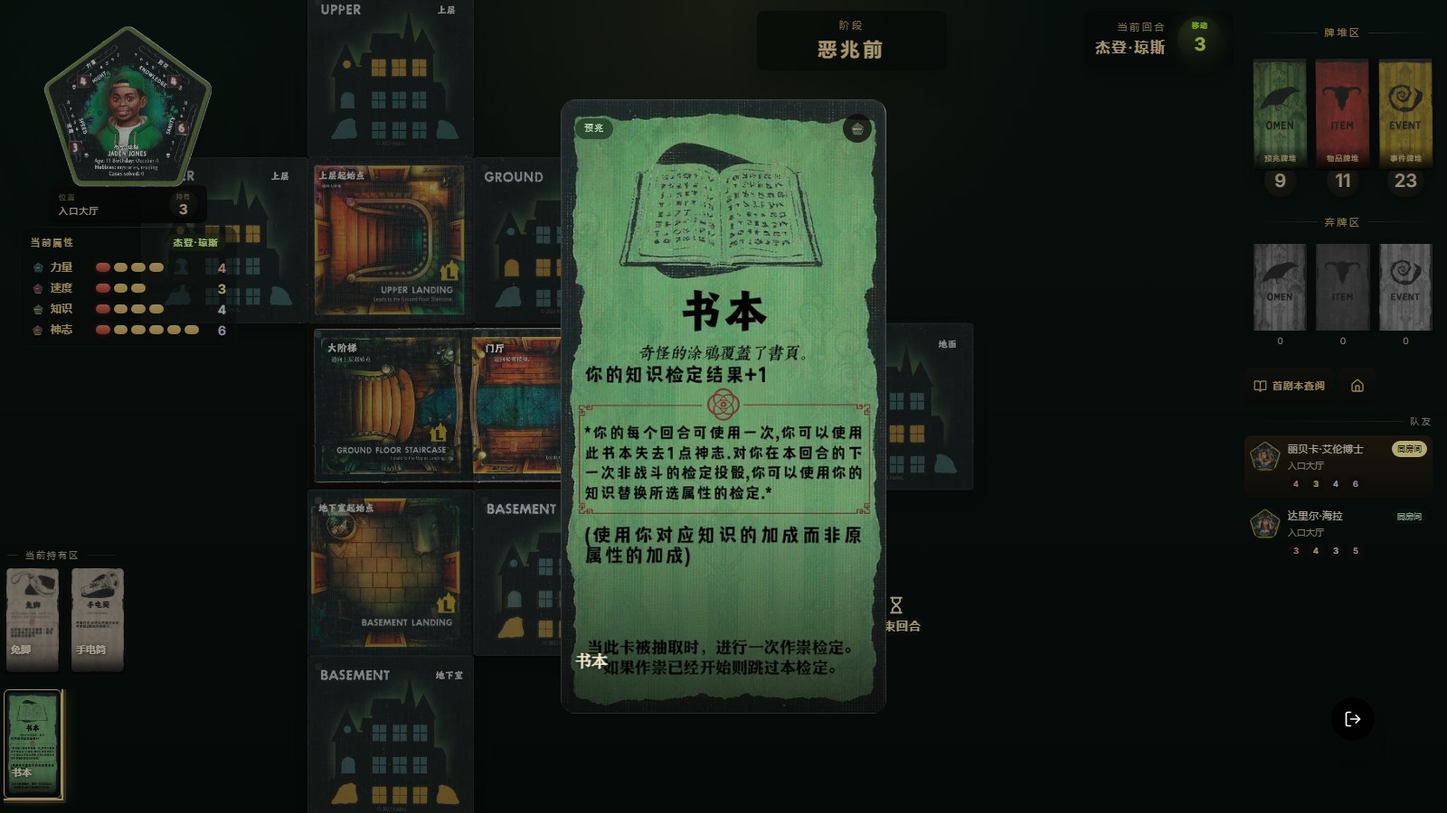
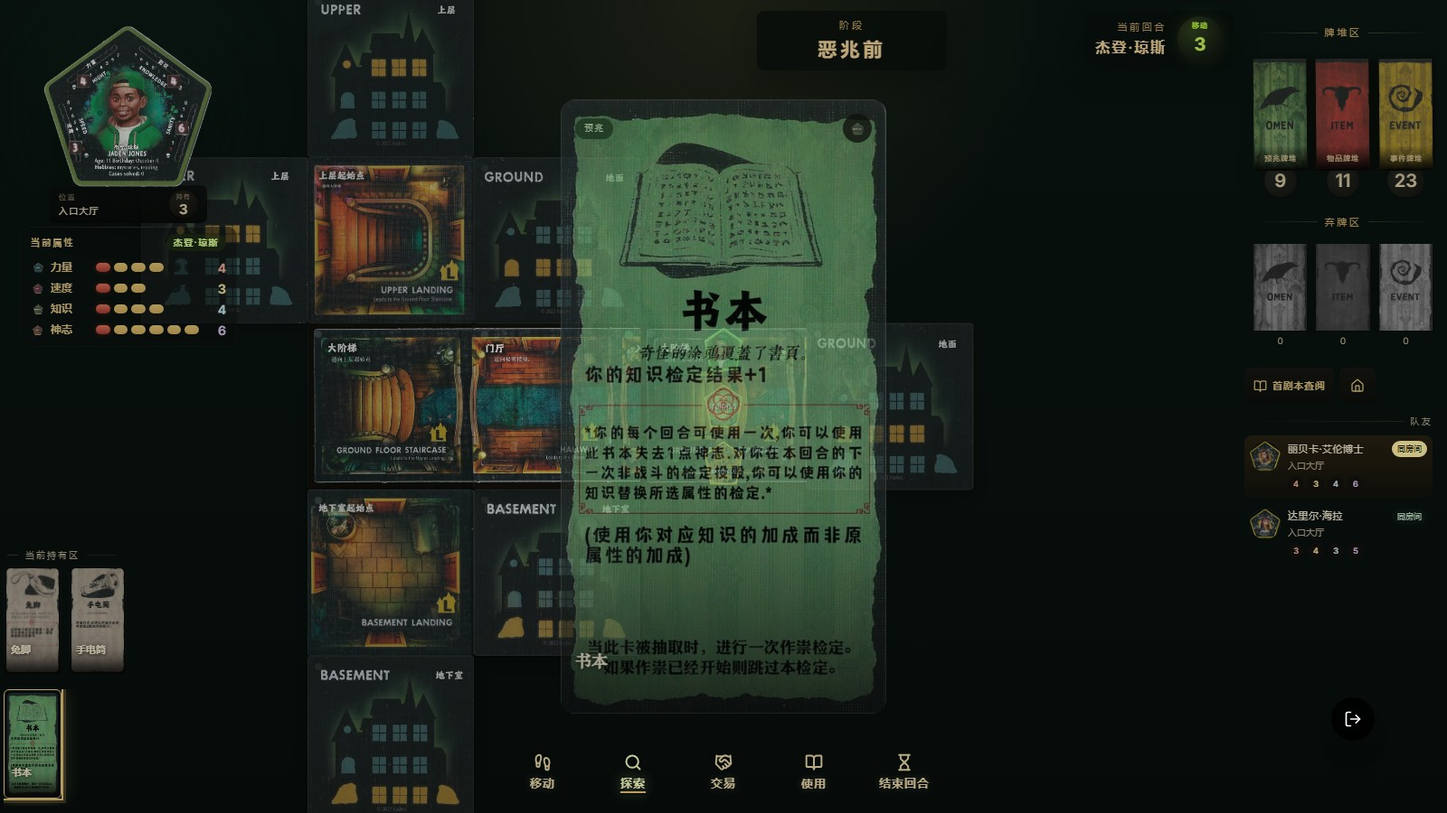
收口七大恨事件记录与面板布局后续改动
- 更新七大恨事件牌正式打出记录层文档与 OpenSpec 任务口径。

- 补充七大恨事件牌行动日志中的规则摘要输出。

- 调整山屋惊魂行动按钮布局，减少地图坐标硬编码。

- 等待 DiceThrone 测试 harness 注册后再派发命令，降低 E2E 抖动。

Changed region(s): [[0.375, 0.1244, 0.625, 0.84], [0.5938, 0.9333, 0.6562, 0.9644]]

diff --git a/src/games/betrayal/Board.tsx b/src/games/betrayal/Board.tsx
@@ -104,9 +104,6 @@ const ROOM_TILE_STEP_Y = 184;
 const ROOM_CANVAS_PADDING = 8;
 const ROOM_CANVAS_MIN_WIDTH = 780;
 const ROOM_CANVAS_MIN_HEIGHT = 560;
-const ACTION_BUTTON_MAP_OFFSET_X = 43;
-const ACTION_BUTTON_MAP_STEP_X = 74;
-const ACTION_BUTTON_MAP_OFFSET_Y = ROOM_CANVAS_PADDING + (3 * ROOM_TILE_STEP_Y) + ROOM_TILE_SIZE - 98;
 
 const EXPLORER_BOARD_MARKER_RANGE: Record<BetrayalTraitKey, { from: { x: number; y: number }; to: { x: number; y: number } }> = {
     might: { from: { x: 14.5, y: 44.5 }, to: { x: 35.5, y: 23.5 } },
@@ -4033,30 +4030,28 @@ export default function BetrayalBoard({ G, dispatch, playerID, matchData, locale
                                     );
                                     })}
                                 </div>
-                                {visibleActionItems.length > 0 ? (
-                                    <>
-                                        {core.recommendedAction === 'trade' ? (
-                                            <div
-                                                data-testid="betrayal-trade-flow-banner"
-                                                className="pointer-events-none absolute left-1/2 top-0 z-40 flex -translate-x-1/2 items-center gap-2 rounded-none border-0 bg-transparent px-0 py-0 text-[13px] font-semibold tracking-[0.06em] text-[#f3e0a6]"
-                                                style={{
-                                                    transform: `translate(-50%, ${ACTION_BUTTON_MAP_OFFSET_Y - 24}px)`,
-                                                    textShadow: '0 1px 2px rgba(0,0,0,0.85), 0 0 12px rgba(238,204,126,0.36)',
-                                                }}
+                            </div>
+                            {visibleActionItems.length > 0 ? (
+                                <div className="pointer-events-none absolute inset-x-0 bottom-2 z-50 hidden flex-col items-center justify-end gap-1 md:flex">
+                                    {core.recommendedAction === 'trade' ? (
+                                        <div
+                                            data-testid="betrayal-trade-flow-banner"
+                                            className="pointer-events-none flex items-center gap-2 rounded-none border-0 bg-transparent px-0 py-0 text-[13px] font-semibold tracking-[0.06em] text-[#f3e0a6]"
+                                            style={{
+                                                textShadow: '0 1px 2px rgba(0,0,0,0.85), 0 0 12px rgba(238,204,126,0.36)',
+                                            }}
+                                        >
+                                            <span data-testid="betrayal-trade-flow-item-step">{tradeInstructionText}</span>
+                                            <span
+                                                data-testid="betrayal-trade-flow-target-step"
+                                                className={tradeSelectionReady ? 'text-[#f6ffc4]' : 'text-[#d6c498]'}
                                             >
-                                                <span data-testid="betrayal-trade-flow-item-step">{tradeInstructionText}</span>
-                                                <span
-                                                    data-testid="betrayal-trade-flow-target-step"
-                                                    className={tradeSelectionReady ? 'text-[#f6ffc4]' : 'text-[#d6c498]'}
-                                                >
-                                                    {tradeSelectionReady ? t('board.status.tradeFlowConfirm') : t('board.status.tradeFlowChoose')}
-                                                </span>
-                                            </div>
-                                        ) : null}
+                                                {tradeSelectionReady ? t('board.status.tradeFlowConfirm') : t('board.status.tradeFlowChoose')}
+                                            </span>
+                                        </div>
+                                    ) : null}
+                                    <div className="pointer-events-auto flex items-end justify-center gap-5">
                                         {visibleActionItems.map((action) => {
-                                            const buttonIndex = visibleActionItems.findIndex((item) => item.id === action.id);
-                                            const totalButtons = Math.max(visibleActionItems.length, 1);
-                                            const centerOffset = ACTION_BUTTON_MAP_OFFSET_X + ((buttonIndex - ((totalButtons - 1) / 2)) * ACTION_BUTTON_MAP_STEP_X);
                                             const Icon = ACTION_ICON_BY_ID[action.id as keyof typeof ACTION_ICON_BY_ID] || Compass;
                                             const isRecommended = action.id === core.recommendedAction
                                                 || (previewState.interactionMode === 'move' && action.id === 'move');
@@ -4078,7 +4073,7 @@ export default function BetrayalBoard({ G, dispatch, playerID, matchData, locale
                                                     data-testid={`betrayal-action-${action.id}`}
                                                     data-tutorial-id={`betrayal-action-${action.id}`}
                                                     title={actionCueText}
-                                                    className={`pointer-events-auto absolute left-1/2 top-0 z-40 flex min-h-[72px] min-w-[80px] flex-col items-center justify-center gap-1 rounded-[5px] border-0 bg-transparent px-1.5 py-2 text-[13px] font-bold uppercase tracking-[0.08em] shadow-none transition ${
+                                                    className={`flex min-h-[72px] min-w-[80px] flex-col items-center justify-center gap-1 rounded-[5px] border-0 bg-transparent px-1.5 py-2 text-[13px] font-bold uppercase tracking-[0.08em] shadow-none transition ${
                                                         action.disabled
                                                             ? 'cursor-not-allowed text-[#5f584d] opacity-55'
                                                             : isRecommended
@@ -4086,7 +4081,6 @@ export default function BetrayalBoard({ G, dispatch, playerID, matchData, locale
                                                                 : 'text-[#ead8a8] hover:text-[#fff0ba]'
                                                     }`}
                                                     style={{
-                                                        transform: `translate(calc(-50% + ${centerOffset}px), ${ACTION_BUTTON_MAP_OFFSET_Y}px)`,
                                                         backgroundColor: 'transparent',
                                                         backgroundImage: 'none',
                                                         border: 0,
@@ -4103,9 +4097,9 @@ export default function BetrayalBoard({ G, dispatch, playerID, matchData, locale
                                                 </button>
                                             );
                                         })}
-                                    </>
-                                ) : null}
-                            </div>
+                                    </div>
+                                </div>
+                            ) : null}
                         </article>
 
                     </section>

diff --git a/src/games/qidahen/domain/selectedActionFollowUp.ts b/src/games/qidahen/domain/selectedActionFollowUp.ts
@@ -96,11 +96,12 @@ const buildQidahenSelectedActionFollowUpLogText = (
     if (resolution.pendingTargetAction) {
         return `${currentFactionName} 执行 ${actionLabel}，弃 ${spentCardCount} 张牌${paymentResourceText}，进入 ${resolution.pendingTargetAction.title}（${resolution.pendingTargetAction.resolutionHint}）。`;
     }
+    if (selectedEventActionCardLabel) {
+        const eventSummaryText = resolution.lastSeasonSummary?.lines[0] ?? '';
+        return `${currentFactionName} 执行 ${actionLabel}「${selectedEventActionCardLabel}」，弃 ${spentCardCount} 张牌${paymentResourceText}。${eventSummaryText}`;
+    }
     if (resolution.lastSeasonSummary?.lines[0]) {
         return `${currentFactionName} 执行 ${actionLabel}，弃 ${spentCardCount} 张牌${paymentResourceText}。${resolution.lastSeasonSummary.lines[0]}`;
-    }
-    if (selectedEventActionCardLabel) {
-        return `${currentFactionName} 执行 ${actionLabel}「${selectedEventActionCardLabel}」，弃 ${spentCardCount} 张牌${paymentResourceText}。`;
     }
     return `${currentFactionName} 执行 ${actionLabel}，弃 ${spentCardCount} 张牌${paymentResourceText}。`;
 };

diff --git a/e2e/dicethrone/dicethrone-duel-shared-compare-roll.e2e.ts b/e2e/dicethrone/dicethrone-duel-shared-compare-roll.e2e.ts
@@ -55,6 +55,10 @@ const dispatchHarnessCommand = async (
     playerId: string,
     payload: Record<string, unknown> = {},
 ) => {
+    await page.waitForFunction(
+        () => (window as any).__BG_TEST_HARNESS__?.command?.isRegistered?.() === true,
+        { timeout: 15000 },
+    );
     await page.evaluate(async ({ commandType, commandPlayerId, commandPayload }) => {
         await (window as any).__BG_TEST_HARNESS__!.command.dispatch({
             type: commandType,

diff --git a/docs/games/qidahen/workflows/qidahen-primary-interaction-audit.md b/docs/games/qidahen/workflows/qidahen-primary-interaction-audit.md
@@ -37,9 +37,9 @@
   - 不再使用 `/play/qidahen/tutorial/...` 路由截图来判断正式进行页 UI
   - 已重新核到的正式页图里，底部教程白色 `下一步` 卡不再出现
 - 但当前正式 UI **没有完整暴露规则书定义的手牌行动全集**：
-  - `执行事件` 还没有对正式开局大多数手牌形成稳定一级入口
-  - `升级军备` 已从右侧势力行动按钮列拆出，只能由**已识别**军备牌手牌本体直接进入正式动作预览
-  - 手牌区虽然已能让**已识别**军备牌/事件牌直接进入正式动作预览，但正式开局仍缺普通事件牌/军备牌真相源，不能稳定承担规则书意义上的“直接打出哪张手牌”
+  - `执行事件` 已能让 atlas05 已确认事件牌从手牌本体进入正式打出记录层，并在摘要里保留具体牌名和规则效果摘要；但完整事件效果仍待逐张实现
+  - `升级军备` 已从右侧势力行动按钮列拆出，并能由 atlas05 已确认军备牌手牌本体直接进入正式动作预览
+  - 手牌区已经能让 atlas05 已确认军备牌/事件牌直接进入正式动作预览或记录层，但事件效果全集、战术时机和银两资源链仍未闭环，不能把这层局部接入说成规则书级手牌行动全集完成
 - 当前地区状态已完成一层持久语义拆分：`regionFocusState` 明确承接默认聚焦、已锁来源、当前目标和展示锚点；`selectedRegionId` 继续作为兼容的屏幕焦点入口，但不再是后续来源区、目标区和展示锚点的唯一真相源。
 - 当前基础教程虽然已经不再把 `select-region` 写成独立第一步，但教程体系与正式进行页之间仍有两层问题：
   - 基础章当前只稳定示范了 `势力行动 + 轮盘行动`
@@ -126,15 +126,15 @@
     - 运行时图集候选安全复核入口已沉淀为 `docs/games/qidahen/workflows/qidahen-hand-card-runtime-atlas-safe-review.md`；本地脚本只生成 28 条候选的小尺寸缩略图与标题裁切索引，避免直接读取大图，但这仍只是人工/OCR 入口，不是正式规则映射。
     - 运行时图集候选小图 OCR 尝试已沉淀为 `docs/games/qidahen/workflows/qidahen-hand-card-runtime-atlas-ocr-attempt.md`；本轮定位到路径编码与内存/显存不足问题，未获得稳定逐牌 OCR 结果，后续改用低分辨率安全预览逐批核读。
     - 运行时图集候选与既有 OCR 线索交叉表已沉淀为 `docs/games/qidahen/workflows/qidahen-hand-card-runtime-atlas-existing-ocr-crosswalk.md`；`docs/games/qidahen/workflows/qidahen-hand-card-runtime-atlas-priority-review.md` 已记录 28 条候选的逐批安全预览核读结果，所有候选均已排除，且没有任何行达到人工确认反写门槛。
-- 因此当前正式局已修正“可证明非行动牌仍是 unknown 壳”的问题，并且 atlas05 已提供普通手牌抽样真相源；49 张已确认普通手牌已经进入正式发牌/摸牌、预览流与运行态规则摘要字段。但正式运行态仍不具备：
-  - 按规则书直接打出哪张事件牌
-  - 按规则书直接打出哪张军备牌
-  - 以真实手牌对象承接一级手牌行动入口
+- 因此当前正式局已修正“可证明非行动牌仍是 unknown 壳”的问题，并且 atlas05 已提供普通手牌真相源；49 张已确认普通手牌已经进入正式发牌/摸牌、预览流与运行态规则摘要字段。正式运行态已经具备一层真实手牌对象入口：
+  - atlas05 已确认事件牌可从手牌本体进入 `执行事件` 记录层，并记录“打出哪张事件牌”和规则摘要
+  - atlas05 已确认军备牌可从手牌本体进入 `升级军备`，并记录“打出哪张军备牌”和目标军备升级结果
+  - atlas05 已确认银两牌可作为支付牌进入弃牌执行链
 - 在这层手牌规则真相补齐前：
-  - `执行事件` 仍然只能判定为正式一级入口缺口
-  - `升级军备` 已去掉抽象势力行动按钮，但仍只能判定为已识别军备牌的局部真实入口
+  - `执行事件` 只能判定为“正式打出记录层已接入”，不能判定为事件效果全集完成
+  - `升级军备` 已去掉抽象势力行动按钮，并补到已确认军备牌的局部真实入口
   - `战术牌` 只补到“规则摘要明确禁止攻城/守城、明确野战限定、明确守城专用、明确依赖增援/附兵劫掠触发，或明确要求具体兵种阶段/炮兵阶段的牌会被当前攻方战术窗口门禁拦截”这一层，仍不是完整战术时机全集
-  - 任何“正式局已经能从真实手牌直接打牌”的口径都不成立
+  - 任何“正式局已经完成事件效果全集、战术时机全集或银两资源链”的口径都不成立
 - OpenSpec `2.4` 不得因为 atlas05 已有 49 张确认行、领域层解析函数和正式发牌/预览接入而勾选；当前核验结论是“普通手牌真相源与局部运行时接入已打开缺口，但事件效果全集和战术时机仍未完成”，不是“正式手牌入口已完成”
 
 ## 规则骨架
@@ -198,8 +198,8 @@
 | :--- | :--- | :--- | :--- | :--- |
 | 手牌上限弃牌 | 手牌区 + 弃牌提交控件 | 手牌本体、提交按钮 | 真实可用 | 进入 `hand-limit-discard` 后直接选牌弃置；不是地区先行 |
 | 轮盘推进 | 轮盘本体 | 轮盘格 | 真实可用 | 横幅只是提示；真实点击在轮盘格 |
-| 执行事件 | 已识别事件牌可由手牌本体进入正式动作预览 | 已识别事件手牌本体 | 局部真实可用 | 当前只对少量已识别事件牌成立；正式开局大多数手牌仍是低保真预览，不能稳定承接“打出哪张事件牌” |
-| 升级军备 | 已识别军备牌由手牌本体进入正式动作预览；无已识别军备牌时不再提供右侧抽象 `upgrade-armament` 按钮 | 已识别军备手牌本体 | 局部真实可用 | 当前已避免“同一动作同时出现手牌直点入口和右侧重复主入口”；但普通军备牌真相源仍缺，整体仍不是规则书口径的“打出军备牌，再弃 1 张” |
+| 执行事件 | atlas05 已确认事件牌可由手牌本体进入正式打出记录层 | 已确认事件手牌本体 | 局部真实可用 | 记录层已能稳定承接“打出哪张事件牌”并写入牌名/规则摘要；完整事件效果仍待逐张实现 |
+| 升级军备 | atlas05 已确认军备牌由手牌本体进入正式动作预览；无已确认军备牌时不再提供右侧抽象 `upgrade-armament` 按钮 | 已确认军备手牌本体 | 局部真实可用 | 当前已避免“同一动作同时出现手牌直点入口和右侧重复主入口”；12 张普通军备牌已能记录具体牌名和目标军备升级结果，但不代表事件、战术、银两全集完成 |
 | 势力行动 | 右侧行动按钮列 | 行动按钮 | 真实可用 | 但它只覆盖手牌行动全集里的 `势力行动` 这一支 |
 | 轮盘行动 | 轮盘推进后的轮盘分支 | 轮盘格、地图目标、后续按钮 | 真实可用 | 进入后再选目标区或待结算对象；不是先选地区 |
 
@@ -233,8 +233,8 @@
 | :--- | :--- | :--- | :--- | :--- | :--- | :--- |
 | 回合开始 | 是否弃到手牌上限 | 手牌弃牌流程 | 选哪些牌弃掉 | 手牌本体 / 提交 | 说明文案、提示卡 | 合理，一级入口不是地区 |
 | 转动轮盘 | 走 1/2/3 格 | 轮盘格可直接点 | 无或之后进入轮盘分支 | 轮盘可点格 | 顶部轮盘横幅 | 合理，横幅应只是提示 |
-| 执行事件 | 先决定打出哪张事件牌 | 已识别事件牌可由手牌本体直入预览 | 牌面效果自身决定后续目标/结算 | 已识别事件手牌本体；未识别手牌仍无稳定入口 | 顶部行动横幅、右侧步骤卡 | **部分收口但仍有缺口**：规则层这一入口已接上局部真实 seam，但正式开局还没稳定暴露给大多数手牌 |
-| 升级军备 | 先决定打出哪张军备牌，再弃 1 张手牌 | 已识别军备牌会由手牌本体直入预览；无已识别军备牌时不再提供右侧抽象入口 | 再弃 1 张手牌、再落到军备升级结果 | 已识别军备手牌本体 | 顶部行动横幅、右侧步骤卡 | **部分收口但仍有缺口**：已识别军备牌已接上真实承接物，但普通军备牌真相源仍缺 |
+| 执行事件 | 先决定打出哪张事件牌 | atlas05 已确认事件牌可由手牌本体直入打出记录层 | 当前记录牌名和规则摘要；完整牌面效果自身仍待逐张实现 | 已确认事件手牌本体 | 顶部行动横幅、右侧步骤卡 | **记录层已接入但未闭环**：规则层这一入口已能承接“打出哪张事件牌”，但逐张事件效果、额外成本、持续区/移出游戏等结算链仍缺 |
+| 升级军备 | 先决定打出哪张军备牌，再弃 1 张手牌 | atlas05 已确认军备牌会由手牌本体直入预览；无已确认军备牌时不再提供右侧抽象入口 | 再弃 1 张手牌、再落到军备升级结果 | 已确认军备手牌本体 | 顶部行动横幅、右侧步骤卡 | **局部闭环**：12 张已确认普通军备牌已接上真实承接物并记录升级结果，但不代表事件、战术、银两全集完成 |
 | 势力行动 | 先决定是否走势力行动，以及走哪一种势力行动 | 右侧行动按钮列 | 某些行动之后才选地区/支付 | 行动按钮 | 顶部行动横幅 | 右侧按钮承接合理，但它只覆盖了手牌行动全集里的其中一支 |
 | 赐印招安 | 先选手牌行动，再支付并指定效果对象 | 行动按钮 `grant-pardon` | 支付 3 张，再指定受影响区域/部队 | 按钮、支付牌、地图目标 | 步骤提示/状态条 | 当前教程教反了，先教成选地区 |
 | 征召军队 | 先进入该行动 | 行动按钮 `recruit` | 某地区建军、再选建军方式 | 行动按钮、地图、后续选项 | interaction subtitle | 当前文案泄露“先选地区”心智 |
@@ -296,13 +296,13 @@
 当前正式 UI 对 `手牌行动` 的处理，是：
 
 - 把 `势力行动` 做成右侧一级按钮
-- 把已识别军备牌保留为手牌本体直点入口；右侧抽象 `升级军备` 主按钮已拆掉
-- 把已识别事件牌保留为手牌本体直点入口；正式开局大多数普通事件牌仍没有稳定暴露
+- 把 atlas05 已确认军备牌保留为手牌本体直点入口；右侧抽象 `升级军备` 主按钮已拆掉
+- 把 atlas05 已确认事件牌保留为手牌本体直点入口，并进入正式 `执行事件` 打出记录层
 
 同时当前手牌对象本身：
 
-- 当某张手牌已经带有规则级行动身份时，现已可由手牌本体直接进入对应正式动作预览
-- 但正式开局当前只能稳定识别 atlas 中可审计的非行动牌身份；普通事件牌、军备牌、战术牌、银两仍缺规则级真相源，不能稳定承接“打出哪张事件牌 / 打出哪张军备牌”
+- 当某张手牌已经带有规则级行动身份时，现已可由手牌本体直接进入对应正式动作预览或打出记录层
+- atlas05 的 49 张普通事件、军备、战术和银两牌已具备规则级真相源；其中事件牌能稳定承接“打出哪张事件牌”的记录合同，军备牌能稳定承接“打出哪张军备牌”的升级合同
 - 主要只承担支付、弃牌、人物/科技/高第这类专项选择
 
 这意味着当前正式流程不只是“地区先行”有问题，还存在一层更早的合同偏差：
@@ -340,8 +340,8 @@
 
 ### 当前缺失或被抽象替代的真实交互载体
 
-- 执行事件：缺少“打出哪张事件牌”的正式一级入口
-- 升级军备：已识别军备牌已有“打出哪张军备牌”的局部真实入口；整体仍缺稳定规则级一级入口
+- 执行事件：已确认事件牌已有“打出哪张事件牌”的正式记录层入口；整体仍缺逐张事件效果结算链
+- 升级军备：已确认军备牌已有“打出哪张军备牌”的局部真实入口；整体仍缺事件、战术、银两等其它手牌行动全集
 
 ### 当前只是提示的 UI
 
@@ -571,7 +571,7 @@
 | :--- | :--- | :--- | :--- | :--- | :--- |
 | 手牌上限弃牌 | `turnPhase = hand-limit-discard` | 右侧弃牌卡、手牌区 | 手牌本体 + 提交 | 选够数量后确认 | 基本合理；不是地区先行 |
 | 轮盘推进 | `wheelStageAvailable` | 轮盘本体、上方轮盘横幅 | 轮盘可点格 | 走完后进入某轮盘分支 | 横幅只是提示，不应被教程写成交互 |
-| 手牌行动：执行事件 | 规则书允许时应先选要打出的事件牌 | 已识别事件手牌会直接暴露单牌入口 | 已识别事件手牌本体 | 事件效果自身再决定后续流程 | **未闭环**：16 张事件牌已识别，但目前没有一张能安全等价复用现有“大汗令箭”链，事件效果全集仍缺 |
+| 手牌行动：执行事件 | 规则书允许时应先选要打出的事件牌 | atlas05 已确认事件手牌会直接暴露单牌入口 | 已确认事件手牌本体 | 当前先进入正式打出记录层；完整事件效果自身仍待逐张实现 | **记录层已接入但未闭环**：已确认事件牌能记录具体牌名和规则摘要，但没有把每张事件牌的实际效果、额外成本、持续区/移除等规则全集实现完 |
 | 手牌行动：升级军备 | 规则书允许时应先打出军备牌 | 已识别军备牌会直接暴露单牌入口；无已识别军备牌时不再提供右侧抽象按钮 | 已识别军备手牌本体 | 军备升级结果 | **局部闭环**：12 张已确认普通军备牌均可从手牌本体直入升级军备，摘要会写明打出的军备牌名和目标军备升级结果；仍不代表事件、战术、银两全集完成 |
 | 手牌行动：势力行动 | `primaryStageMode = faction` | 右侧行动按钮列 | 行动按钮 | 某些行动才继续选地区/支付 | 这只是手牌行动全集里的一支，不是全部 |
 | 手牌支付预览 | 选中有费用的手牌行动后 | 右侧支付预览、手牌区 | 预览确认/取消、手牌本体 | 支付完成后才执行行动 | 基本合理；但教程目前没按这个顺序教 |
@@ -601,11 +601,11 @@
 - 已识别军备牌直入预览与执行，并能在摘要里保留“打出哪张军备牌”；未识别时不再退回抽象 `upgrade-armament`
 - 已识别银两牌可作为支付牌进入现有弃牌执行链，行动记录会保留“银两资源牌”身份
 - `封贡敕书` 在后金/蒙古普通支付里已按“视作 2 张银两”计入支付值和执行记录；大明支付同牌仍只算 1 张普通手牌
-- 已识别事件牌只完成身份与摘要接入，尚未建立事件效果全集执行链
+- 已确认事件牌已能从手牌本体进入 `执行事件` 打出记录层，行动记录会保留具体牌名和规则摘要；尚未建立事件效果全集执行链
 
 却没有：
 
-- 规则级的“打出哪张事件牌”
+- 逐张事件牌的完整事件效果、额外成本、持续事件区/移出游戏等结算链
 - 银两在所有资源弃牌、特殊事件替代支付与跨势力弃牌场景中的完整资源链闭环；`封贡敕书` 的事件效果、跨势力弃牌和进入对手弃牌堆也仍未实现
 
 同时当前手牌对象仍有未闭环部分：
@@ -816,15 +816,17 @@
 
 1. 规则书同层一级入口里的 `执行事件 / 升级军备 / 势力行动`，当前正式局只稳定暴露了：
    - 势力行动按钮列
+   - atlas05 已确认事件牌直入 `执行事件` 记录层，执行记录会保留具体牌名和规则摘要；完整事件效果仍未实现
    - 已识别军备牌直入预览与执行；未识别军备牌不再退回抽象 `upgrade-armament`
    - 已识别银两牌作为支付牌消费时会在执行记录里保留资源牌身份
    - `封贡敕书` 在后金/蒙古普通支付中会按 2 点计入支付值，但仍没有实现事件效果和跨势力弃牌链
 2. 正式局仍缺：
-   - 规则书口径的“打出哪张事件牌”
+   - 逐张事件牌的完整事件效果、额外成本、持续事件区/移出游戏等结算链
    - 银两资源牌在特殊事件、替代支付与跨势力弃牌中的完整资源链
 3. 这不是按钮文案问题，而是正式手牌对象只补到了 atlas05 已确认普通手牌的局部身份：
    - 人物 / 剧本 / 纪年 / 牌背已能稳定记录 `cardKind / cardDefId`
    - atlas05 的 49 张已确认普通事件 / 军备 / 战术 / 银两牌已能稳定记录 `cardKind / cardDefId / armamentId`
+   - atlas05 的已确认事件牌已能在 `执行事件` 记录层保留具体牌名与规则摘要；这不是完整事件效果闭环
    - atlas05 的 12 张普通军备牌已能在升级军备摘要里保留具体牌名与升级目标
    - atlas05 的 2 张银两牌已能作为支付牌被消费，并在行动记录里保留“银两资源牌”身份
    - `封贡敕书` 已在后金/蒙古普通行动支付中按“视作 2 张银两”计入支付值；这不是完整事件效果或银两资源链闭环

diff --git a/openspec/changes/refactor-qidahen-formal-core-loop-and-tutorial-coverage/tasks.md b/openspec/changes/refactor-qidahen-formal-core-loop-and-tutorial-coverage/tasks.md
@@ -57,6 +57,7 @@
   - 2026-07-04 已补当前攻方战术窗口的守城专用门禁：规则摘要包含“只能于守城时使用”的战术牌不会再被攻方野战或城战 `PLAY_TACTIC_CARD` 入口误放行；现有城战门禁仍拦截野战限定、攻守城禁用和守城专用战术牌。这只关闭可由当前 `pendingTargetAction` 证明的一层时机约束，不代表守方战术窗口、兵种阶段、炮兵/次级部队等战术时机全集已闭环。
   - 2026-07-04 已补当前攻方战术窗口的触发型战术保守门禁：`偷袭与伏击` 这类“敌人增援时”战术，以及 `诈败诱敌` 这类“取消对手宣告的附兵劫掠”战术，不再能从普通待结算战斗的 `PLAY_TACTIC_CARD` 窗口泛用打出。当前代码已确认围城增援结算为“不进入战斗”，且尚无守方响应、增援触发或附兵劫掠宣告窗口；因此这只是一层防误放行门禁，不代表相关触发窗口或逐张战术效果完成。
   - 2026-07-04 已补当前攻方战术窗口的阶段型战术保守门禁：`箭如雨下` 这类明确“野战步兵阶段使用”的牌，以及 `乌真超哈` 这类明确“提前在炮兵阶段”攻击的牌，不再能从普通待结算战斗的 `PLAY_TACTIC_CARD` 窗口提前泛用打出。当前战术链只记录“打出战术牌”，尚无步兵/骑兵/炮兵阶段上下文；因此这只是一层防误放行门禁，不代表兵种阶段窗口或逐张战术效果完成。
+  - 2026-07-04 已补 atlas05 已确认事件牌的正式打出记录层：普通事件牌现在可从手牌本体进入 `执行事件`，执行记录会保留“打出哪张事件牌”和人工录入的规则效果摘要；这只关闭记录合同，不实现逐张事件效果、额外成本、持续事件区、移出游戏或跨势力资源链，2.4 / 4.5 继续保持未完成。
   - 2026-07-03 已新增运行时图集候选小图 OCR 尝试记录：`docs/games/qidahen/workflows/qidahen-hand-card-runtime-atlas-ocr-attempt.md`。EasyOCR 路径编码问题已定位并绕过，但随后受内存/显存不足影响，未稳定完成 28 条候选识别；该记录只能作为阻塞证据，不能作为 2.4 完成依据。
   - 2026-07-03 已新增运行时图集候选与既有 OCR 线索交叉表：`docs/games/qidahen/workflows/qidahen-hand-card-runtime-atlas-existing-ocr-crosswalk.md`。28 条候选全部命中既有 OCR/核读线索，但 24 条带非普通手牌线索，2 条只有普通关键词仍缺人工确认，2 条低信息；不能作为 2.4 完成依据。
   - 2026-07-03 已新增运行时图集候选最小人工确认队列：`docs/games/qidahen/workflows/qidahen-hand-card-runtime-atlas-priority-review.md`。该步骤曾把可优先人工核读的候选从 28 条收窄为 4 条：后金 CardID 1508、大明 CardID 202、蒙古 CardID 1300、蒙古 CardID 1302；后续单张低分辨率安全预览已确认这些行均为人物牌或纪年/剧本类牌，不能反写正式手牌规则映射。

diff --git a/docs/games/qidahen/workflows/qidahen-hand-card-formal-mapping-contract.md b/docs/games/qidahen/workflows/qidahen-hand-card-formal-mapping-contract.md
@@ -1,6 +1,8 @@
 # 七大恨普通手牌正式映射反写契约
 
 > 这份契约只定义“人工确认后的结果应如何反写到正式领域层”。2026-07-04 已有 atlas05 的 49 张普通手牌达到人工确认门槛，并已接入正式发牌/预览流；但当前只是普通手牌真相源局部推进，事件效果全集、战术时机和完整行动语义仍未闭环，因此本文件不得被理解为已经完成正式手牌一级入口。
+>
+> 2026-07-04 追加口径：atlas05 已确认事件牌已能从手牌本体进入 `play-event-card` / `执行事件` 记录层，记录具体牌名和规则效果摘要；这只是“打出哪张事件牌”的记录合同，不代表逐张事件效果、额外成本、持续事件区、移出游戏或跨势力资源链已经完成。
 
 ## 当前运行时落点
 
